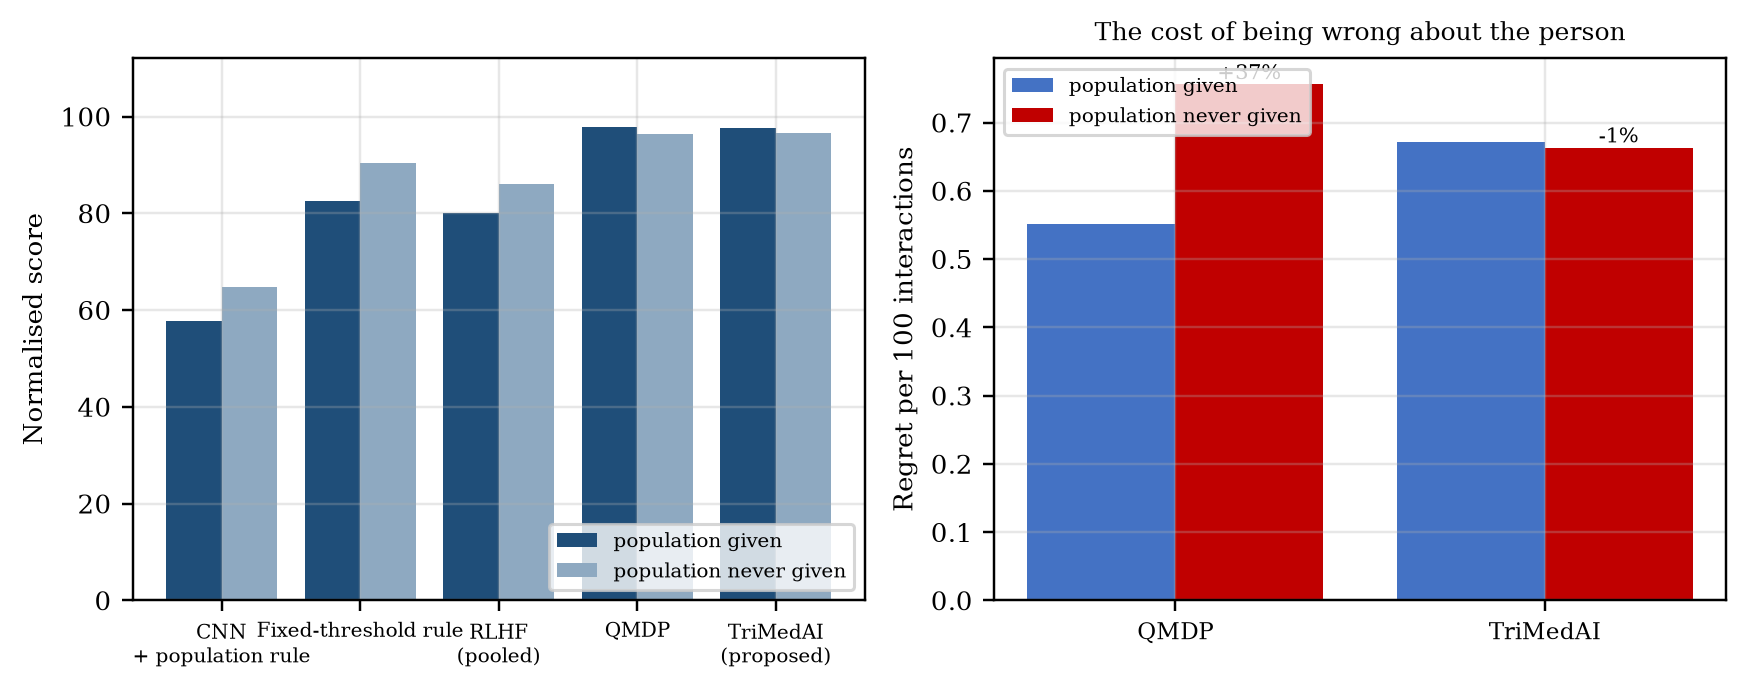
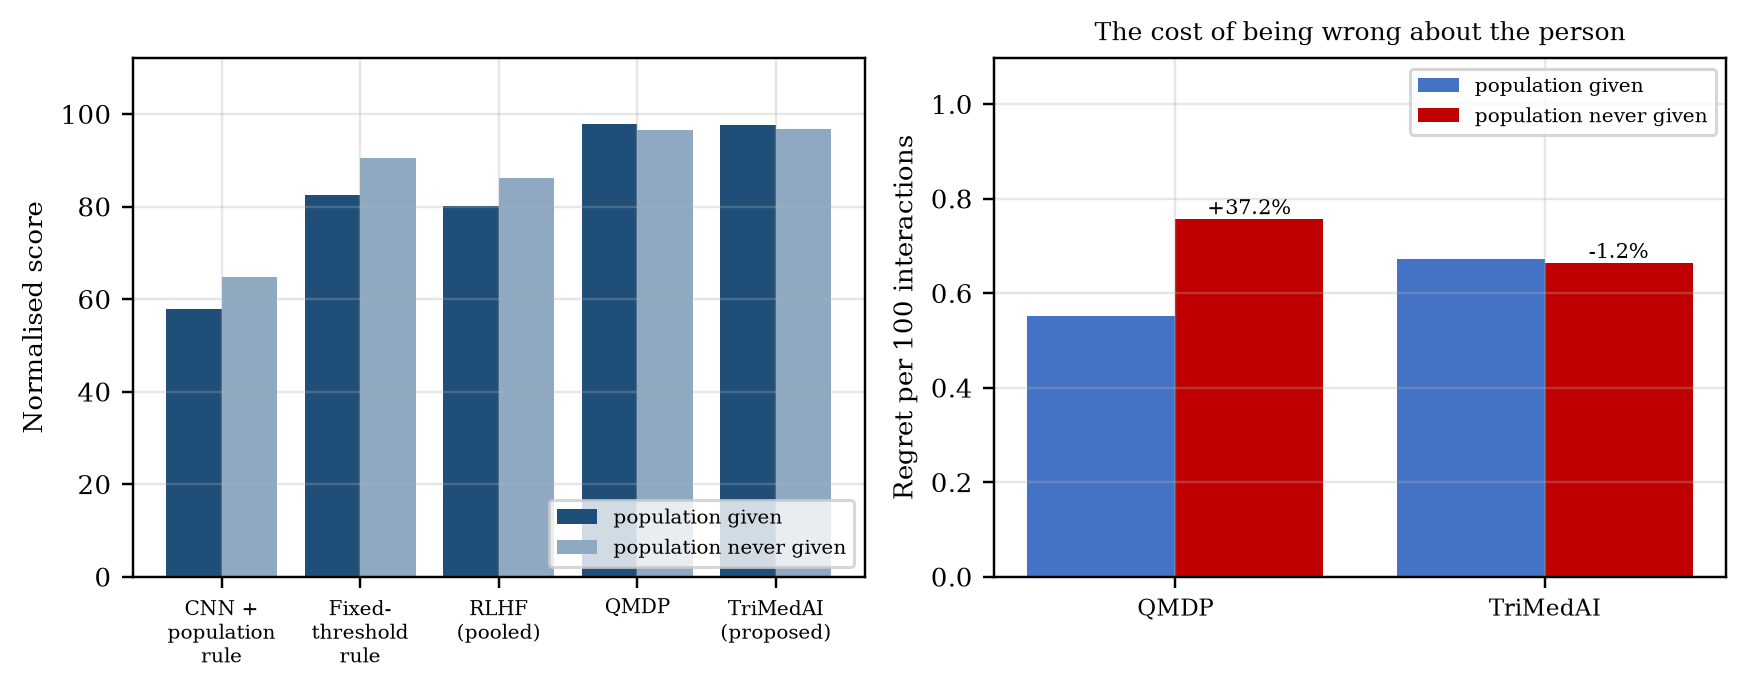
Figures: no point hidden by a legend, labels at the precision of the tables
Figure 3 and 4 legends moved so every method is visible; the Figure 4 gap is
labelled from the points it plots. Interactions to settle, regret and the
regret change are labelled to one or three decimals, as in the tables, and the
onboarding panel reports p < 0.001. Tick labels no longer overlap in Figures 8
and 9, and the Figure 10 axis title fits. No result file changed.

diff --git a/src/make_figures.py b/src/make_figures.py
@@ -312,8 +312,9 @@ def frontier():
     az.set_title("The corner the useful methods occupy", fontsize=8.6)
     az.set_xlim(7.2, 10.9)
     az.set_ylim(-0.07, 0.78)
-    ax.legend(fontsize=6.1, loc="upper right", framealpha=0.94)
-    fig.tight_layout()
+    h, l = ax.get_legend_handles_labels()
+    fig.tight_layout(rect=(0, 0.13, 1, 1))
+    fig.legend(h, l, fontsize=6.4, loc="lower center", ncol=4, frameon=False)
     fig.savefig(os.path.join(FIGURES, "r03_frontier.png"))
     plt.close(fig)
     print("wrote r03_frontier.png")
@@ -335,18 +336,19 @@ def value_burden():
     for k in ("RLHF", "MCDM", "CNN", "PosteriorSampling", "QMDP"):
         ax.scatter([M(k, "alerts_per_100")], [NORM(k)], s=42, color=COL[k],
                    label=LAB[k], zorder=5)
-    gap = NORM("TriMedAI") - NORM("NEWS2")
-    ax.annotate("", xy=(F["Fixed threshold"]["alerts"], NORM("TriMedAI")),
-                xytext=(F["Fixed threshold"]["alerts"], NORM("NEWS2")),
+    top = F["points"]["0.9"]["TriMedAI"]["norm"]
+    bot = F["Fixed threshold"]["norm"]
+    gap = round(top, 1) - round(bot, 1)
+    ax.annotate("", xy=(F["Fixed threshold"]["alerts"], top),
+                xytext=(F["Fixed threshold"]["alerts"], bot),
                 arrowprops=dict(arrowstyle="<->", color=RED, lw=1.1))
-    ax.text(F["Fixed threshold"]["alerts"] - 0.15,
-            0.5 * (NORM("TriMedAI") + NORM("NEWS2")),
+    ax.text(F["Fixed threshold"]["alerts"] - 0.15, 0.5 * (top + bot),
             "%.1f points" % gap, color=RED, fontsize=7, ha="right", va="center")
     ax.axhline(100, color="black", ls=":", lw=0.9)
     ax.set_xlabel("Caregiver call-outs per 100 interactions")
     ax.set_ylabel("Normalised score (floor 0, reference 100)")
     ax.set_title("Value delivered against the same burden", fontsize=8.6)
-    ax.legend(fontsize=6.3, loc="lower left", framealpha=0.94)
+    ax.legend(fontsize=6.3, loc="upper left", framealpha=0.94)
     fig.savefig(os.path.join(FIGURES, "r04_value.png"))
     plt.close(fig)
     print("wrote r04_value.png")
@@ -362,7 +364,7 @@ def regret_onboarding():
     a1.set_yticklabels([LAB[k] for k in order], fontsize=7)
     a1.set_xlabel("Regret per 100 interactions (primary endpoint)")
     for i, v in enumerate(reg):
-        a1.annotate("%.2f" % v, (v, i), va="center", ha="left", fontsize=7,
+        a1.annotate("%.3f" % v, (v, i), va="center", ha="left", fontsize=7,
                     xytext=(3, 0), textcoords="offset points")
     a1.set_xlim(0, max(reg) * 1.22)
 
@@ -374,7 +376,7 @@ def regret_onboarding():
            label="without")
     for i, r in enumerate(rows):
         if r["p_crisis"] < 0.01:
-            a2.annotate("p < 0.01",
+            a2.annotate("p < 0.001" if r["p_crisis"] < 0.001 else "p < 0.01",
                         (i, max(r["crisis_with"], r["crisis_without"])),
                         ha="center", va="bottom", fontsize=6.2)
     a2.set_xticks(xw)
@@ -437,8 +439,8 @@ def robustness():
     b1.bar(xp + 0.2, [nz("out_of_family", m) for m in meths], 0.4, color="#8ea9c1",
            label="population never given")
     b1.set_xticks(xp)
-    b1.set_xticklabels([LAB[m].replace(" + ", "\n+ ").replace(" (", "\n(")
-                        for m in meths], fontsize=6.4)
+    b1.set_xticklabels(["CNN +\npopulation\nrule", "Fixed-\nthreshold\nrule", "RLHF\n(pooled)",
+                        "QMDP", "TriMedAI\n(proposed)"], fontsize=6.4)
     b1.set_ylabel("Normalised score")
     b1.set_ylim(0, 112)
     b1.legend(fontsize=6.6, loc="lower right")
@@ -451,12 +453,13 @@ def robustness():
     b2.bar(xp2 + 0.2, rout, 0.4, color=RED, label="population never given")
     for i in range(2):
         d = 100 * (rout[i] / rin[i] - 1)
-        b2.annotate("%+.0f%%" % d, (i + 0.2, rout[i]), ha="center", va="bottom",
+        b2.annotate("%+.1f%%" % d, (i + 0.2, rout[i]), ha="center", va="bottom",
                     fontsize=7)
     b2.set_xticks(xp2)
     b2.set_xticklabels(["QMDP", "TriMedAI"], fontsize=7.5)
     b2.set_ylabel("Regret per 100 interactions")
-    b2.legend(fontsize=6.6, loc="upper left")
+    b2.set_ylim(0, max(rin + rout) * 1.45)
+    b2.legend(fontsize=6.6, loc="upper right")
     b2.set_title("The cost of being wrong about the person", fontsize=8.2)
     fig.tight_layout()
     fig.savefig(os.path.join(FIGURES, "r08_robustness.png"))
@@ -489,7 +492,7 @@ def thresholds():
     ax.set_ylabel("Severity at which a caregiver is summoned")
     ax.set_yticks(range(N_SEV))
     ax.set_yticklabels(["0", "1", "2", "3", "never"])
-    ax.legend(fontsize=6.2, ncol=2, loc="upper center")
+    ax.legend(fontsize=6.4, ncol=3, loc="upper center", bbox_to_anchor=(0.5, -0.2), frameon=False)
     fig.savefig(os.path.join(FIGURES, "r10_thresholds.png"))
     plt.close(fig)
     print("wrote r10_thresholds.png")
@@ -586,7 +589,7 @@ def ablation():
     a3.barh(yb, bvals, xerr=berrs, color=bcols, height=0.6,
             error_kw=dict(lw=0.8, capsize=2))
     for i, (v, ad) in enumerate(zip(bvals, badapt)):
-        a3.annotate("%.0f interactions to settle" % ad, (v, i), va="center",
+        a3.annotate("%.1f interactions to settle" % ad, (v, i), va="center",
                     ha="right", fontsize=6.4, color="white",
                     xytext=(-4, 0), textcoords="offset points")
     a3.set_yticks(yb)
@@ -604,10 +607,10 @@ def ablation():
 
 # ========================================================== misspecification ==
 SHORT = {"product / Boltzmann / constant relief (the agent's model class)":
-         "the agent's own\nmodel class",
-         "proportional-hazard deterioration": "deterioration not\nof product form",
-         "epsilon-greedy stated preference": "preference not\nBoltzmann",
-         "graded caregiver relief": "relief after an alert\nnot constant",
+         "agent's own\nmodel class",
+         "proportional-hazard deterioration": "deterioration\nnot product\nform",
+         "epsilon-greedy stated preference": "preference\nnot\nBoltzmann",
+         "graded caregiver relief": "relief after\nalert not\nconstant",
          "all three together": "all three\ntogether"}
 
 
@@ -619,7 +622,7 @@ def misspec():
     lab = {"Fixed threshold": "Fixed-threshold rule", "QMDP": "QMDP",
            "TriMedAI": "TriMedAI (proposed)"}
 
-    fig, (a1, a2) = plt.subplots(1, 2, figsize=(8.4, 3.4))
+    fig, (a1, a2) = plt.subplots(1, 2, figsize=(9.0, 3.6))
     xp = np.arange(len(worlds))
     w = 0.26
     for k, m in enumerate(meths):
@@ -669,11 +672,11 @@ def noise():
              [M["noise"][k]["TriMedAI"]["frailty_error"] for k, _ in got]
         a1.plot(xs, ys, marker=mk[i], ms=3.4, lw=1.3, label=label)
         a2.plot(xs, fe, marker=mk[i], ms=3.4, lw=1.3, label=label)
-    a1.set_xlabel("Error rate on the deterioration signal, or spread of the u(x) error")
+    a1.set_xlabel("Signal error rate, or spread of the u(x) error")
     a1.set_ylabel("Normalised score", fontsize=8)
     a1.axhline(100, color="black", ls="--", lw=0.9)
     a1.legend(fontsize=6.4, loc="lower left")
-    a2.set_xlabel("Error rate on the deterioration signal, or spread of the u(x) error")
+    a2.set_xlabel("Signal error rate, or spread of the u(x) error")
     a2.set_ylabel("Error in the recovered frailty", fontsize=8)
     a2.legend(fontsize=6.4, loc="upper left")
     fig.tight_layout()
